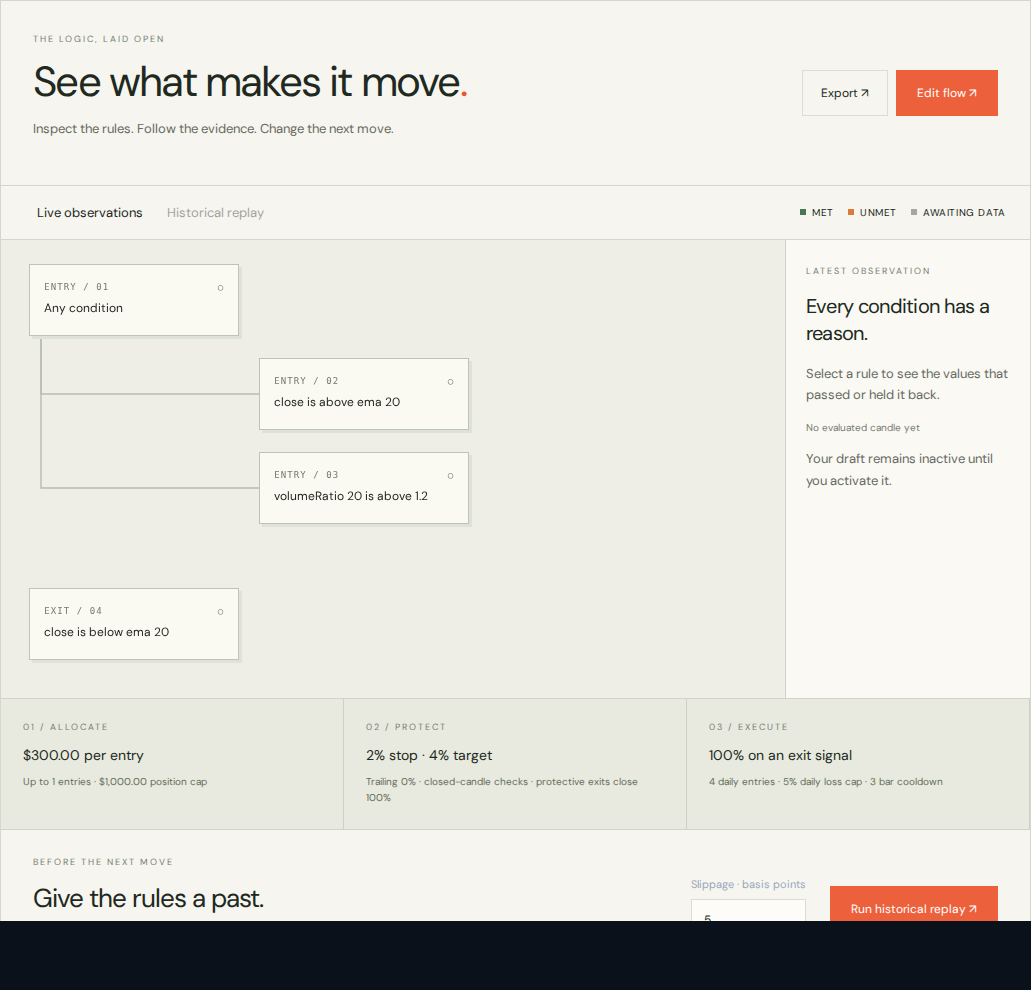
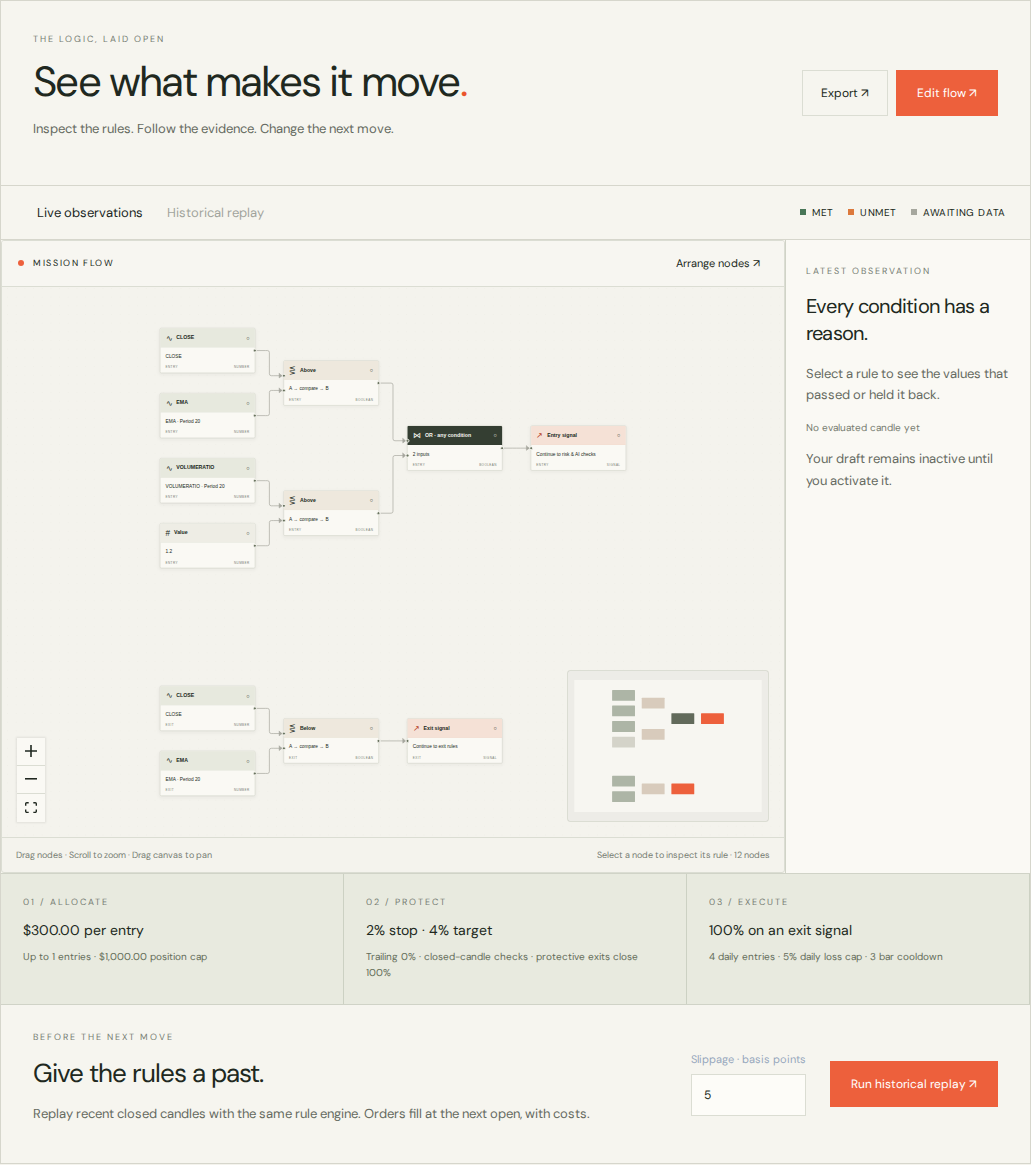
web: production build with client-side navigation
Internal links use next/link so the layout stays mounted and the brand cover
only runs on a cold load. pm2 now serves a real next build via next start;
infra/build-web.sh builds on a remote machine and installs the output.
The pm2 config passes apps/web/.env.local explicitly and clears the inherited
__NEXT_PROCESSED_ENV flag that made next start skip env files.

diff --git a/apps/web/app/page.js b/apps/web/app/page.js
@@ -1,4 +1,5 @@
 'use client';
+import Link from 'next/link';
 import {useState,useEffect,useRef} from 'react';
 import Brand from './components/Brand';
 import Sculpture from './components/Sculpture';
@@ -6,4 +7,4 @@ import Markets from './components/Markets';
 import MissionShowcase from './components/MissionShowcase';
 import './landing.css';
 const Arrow=()=> <span aria-hidden="true">↗</span>;
-export default function Landing(){const [menu,setMenu]=useState(false);const root=useRef(null);useEffect(()=>{const observer=new IntersectionObserver(entries=>entries.forEach(e=>{if(e.isIntersecting)e.target.classList.add('revealed')}),{threshold:.12});root.current.querySelectorAll('.reveal').forEach(e=>observer.observe(e));return()=>observer.disconnect()},[]);return <div className="landing" ref={root}><header className="site-header"><Brand/><nav aria-label="Main navigation"><a href="#markets">Markets</a><a href="#experience">The experience</a><a href="#insights">AI missions</a></nav><a className="nav-trade" href="/trade">Open exchange <Arrow/></a><button className="mobile-toggle" aria-label="Toggle menu" aria-expanded={menu} onClick={()=>setMenu(!menu)}>{menu?'Close':'Menu'}</button></header>{menu&&<nav className="landing-mobile"><a href="#markets" onClick={()=>setMenu(false)}>Markets ↗</a><a href="#experience" onClick={()=>setMenu(false)}>The experience ↗</a><a href="#insights" onClick={()=>setMenu(false)}>AI missions ↗</a><a href="/trade">Open exchange ↗</a></nav>}<section className="landing-hero"><div className="hero-atmosphere" aria-hidden="true"><span className="hero-watermark">algoty</span><i className="hero-color-haze"/></div><div className="hero-kicker"><span>A DIFFERENT WAY TO MEET THE MARKET.</span><span>EST. 2026 / ALWAYS CURIOUS</span></div><h1><span className="hero-line-one">Make</span><span className="hero-line-two">your move.</span></h1><Sculpture/><span className="hero-script">with clarity.</span><a href="/trade" className="hero-cta">Step into the exchange <Arrow/></a><div className="hero-bottom-left"><span className="mini-orbit">✳</span><p>A little curiosity.<br/>A whole new perspective.</p></div><div className="hero-bottom-right"><p>Explore. Trade. Find your rhythm.<br/>Start with a virtual portfolio.</p><a href="#markets">SCROLL TO EXPLORE <span>↓</span></a></div><div className="object-note">01 / THE ALGOTY ORBIT <span>DRAG TO EXPLORE</span></div></section><section className="marquee" aria-label="Trade with perspective"><div>MORE PERSPECTIVE <span>✳</span> LESS GUESSWORK <span>✳</span> MORE PERSPECTIVE <span>✳</span> LESS GUESSWORK <span>✳</span></div></section><section id="markets" className="market-section reveal"><div className="section-heading"><span className="section-index">01 — KEEP YOUR EYE ON IT</span><div><h2>The market.<br/><em>In the moment.</em></h2><p>A clear view of the assets you follow.<br/>Less noise. More room to see.</p></div></div><Markets/><div className="section-bottom"><span>Live Binance data. Your orders use virtual funds and observed market liquidity.</span><a href="/markets">Explore markets <Arrow/></a></div></section><section id="experience" className="experience-section"><div className="experience-top reveal"><span className="section-index">02 — FIND YOUR OWN RHYTHM</span><h2>All the room<br/>to <em>make a move.</em></h2><a className="outline-cta" href="/trade">Meet your trading space <Arrow/></a></div><div className="experience-stage reveal"><div className="terminal-preview"><div className="preview-bar"><Brand/><span>BTC / USDT <b>PAPER TRADING</b></span><span>YOUR SPACE ↗</span></div><div className="preview-grid"><div><small>BITCOIN / LIVE MARKET</small><strong>Your next move<br/>starts here.</strong><svg viewBox="0 0 600 170" aria-hidden="true"><path d="M0 150 25 140 40 145 65 90 85 110 110 80 140 95 160 70 190 100 205 60 235 82 255 40 275 55 300 25 325 45 345 20 360 40 390 10 410 35 435 18 460 40 485 5 510 28 540 10 565 20 600 0" fill="none" stroke="currentColor" strokeWidth="2"/></svg><span className="preview-caption">Illustrative chart · your trades create their own story</span></div><aside><small>YOUR STARTING PORTFOLIO</small><strong>$10,000</strong><span>virtual USDT. Start with a clean slate.</span><div className="preview-row">Order type <b>Limit</b></div><div className="preview-row">Your pace <b>Your choice</b></div><a href="/trade">Make your first trade ↗</a></aside></div></div><span className="stage-label">A FAMILIAR SPACE. A FRESH PERSPECTIVE.</span></div><div className="experience-features reveal"><div><span>01 /</span><h3>Your space to trade.</h3><p>Live candles and depth. Market and limit orders, priced against observed liquidity.</p></div><div><span>02 /</span><h3>Stay in the details.</h3><p>See your open orders, partial fills and available balance as you go.</p></div><div><span>03 /</span><h3>An idea worth following.</h3><p>Describe a mission. Review its rules and let an AI agent follow the market.</p></div></div></section><MissionShowcase/><section className="faq-section reveal"><span className="section-index">A FEW THINGS WORTH KNOWING</span><h2>Before you <em>begin.</em></h2>{[['Is this real-money trading?','AlgoTy is a paper-trading exchange. You use virtual funds, with no deposits or withdrawals. It is a space to explore trading and research.'],['What can I trade?','Trade Bitcoin, Ethereum and Solana against virtual USDT. Live candles, trades and depth come from Binance public market data. Market and limit orders execute inside AlgoTy, never on Binance.'],['How do I start?','Open the exchange for a $10,000 virtual USDT portfolio. Place a market or limit order, or create an AI mission with its own account. Register to keep access across devices.'],['What does the AI agent actually do?','It converts your brief into editable supported rules. Once activated, it watches closed candles, reviews entry evidence with AI and sends paper orders within fixed limits. You can pause it or compare two fresh versions. Stops are checked on candle close; results are not forecasts.']].map(([q,a])=><details key={q}><summary>{q}<span>+</span></summary><p>{a}</p></details>)}</section><footer className="landing-footer"><div className="footer-top"><span>THE NEXT MOVE IS YOURS.</span><a href="/trade">Let's make it happen <Arrow/></a></div><a className="footer-giant" href="/trade">Stay curious.<span>↗</span></a><div className="footer-bottom"><Brand/><nav><a href="/markets">Markets</a><a href="/trade">Exchange</a><a href="/agents">AI missions</a></nav><span>© 2026 ALGOTY<br/>Virtual funds. Real curiosity.</span></div></footer></div>}
+export default function Landing(){const [menu,setMenu]=useState(false);const root=useRef(null);useEffect(()=>{const observer=new IntersectionObserver(entries=>entries.forEach(e=>{if(e.isIntersecting)e.target.classList.add('revealed')}),{threshold:.12});root.current.querySelectorAll('.reveal').forEach(e=>observer.observe(e));return()=>observer.disconnect()},[]);return <div className="landing" ref={root}><header className="site-header"><Brand/><nav aria-label="Main navigation"><a href="#markets">Markets</a><a href="#experience">The experience</a><a href="#insights">AI missions</a></nav><Link className="nav-trade" href="/trade">Open exchange <Arrow/></Link><button className="mobile-toggle" aria-label="Toggle menu" aria-expanded={menu} onClick={()=>setMenu(!menu)}>{menu?'Close':'Menu'}</button></header>{menu&&<nav className="landing-mobile"><a href="#markets" onClick={()=>setMenu(false)}>Markets ↗</a><a href="#experience" onClick={()=>setMenu(false)}>The experience ↗</a><a href="#insights" onClick={()=>setMenu(false)}>AI missions ↗</a><Link href="/trade">Open exchange ↗</Link></nav>}<section className="landing-hero"><div className="hero-atmosphere" aria-hidden="true"><span className="hero-watermark">algoty</span><i className="hero-color-haze"/></div><div className="hero-kicker"><span>A DIFFERENT WAY TO MEET THE MARKET.</span><span>EST. 2026 / ALWAYS CURIOUS</span></div><h1><span className="hero-line-one">Make</span><span className="hero-line-two">your move.</span></h1><Sculpture/><span className="hero-script">with clarity.</span><Link href="/trade" className="hero-cta">Step into the exchange <Arrow/></Link><div className="hero-bottom-left"><span className="mini-orbit">✳</span><p>A little curiosity.<br/>A whole new perspective.</p></div><div className="hero-bottom-right"><p>Explore. Trade. Find your rhythm.<br/>Start with a virtual portfolio.</p><a href="#markets">SCROLL TO EXPLORE <span>↓</span></a></div><div className="object-note">01 / THE ALGOTY ORBIT <span>DRAG TO EXPLORE</span></div></section><section className="marquee" aria-label="Trade with perspective"><div>MORE PERSPECTIVE <span>✳</span> LESS GUESSWORK <span>✳</span> MORE PERSPECTIVE <span>✳</span> LESS GUESSWORK <span>✳</span></div></section><section id="markets" className="market-section reveal"><div className="section-heading"><span className="section-index">01 — KEEP YOUR EYE ON IT</span><div><h2>The market.<br/><em>In the moment.</em></h2><p>A clear view of the assets you follow.<br/>Less noise. More room to see.</p></div></div><Markets/><div className="section-bottom"><span>Live Binance data. Your orders use virtual funds and observed market liquidity.</span><Link href="/markets">Explore markets <Arrow/></Link></div></section><section id="experience" className="experience-section"><div className="experience-top reveal"><span className="section-index">02 — FIND YOUR OWN RHYTHM</span><h2>All the room<br/>to <em>make a move.</em></h2><Link className="outline-cta" href="/trade">Meet your trading space <Arrow/></Link></div><div className="experience-stage reveal"><div className="terminal-preview"><div className="preview-bar"><Brand/><span>BTC / USDT <b>PAPER TRADING</b></span><span>YOUR SPACE ↗</span></div><div className="preview-grid"><div><small>BITCOIN / LIVE MARKET</small><strong>Your next move<br/>starts here.</strong><svg viewBox="0 0 600 170" aria-hidden="true"><path d="M0 150 25 140 40 145 65 90 85 110 110 80 140 95 160 70 190 100 205 60 235 82 255 40 275 55 300 25 325 45 345 20 360 40 390 10 410 35 435 18 460 40 485 5 510 28 540 10 565 20 600 0" fill="none" stroke="currentColor" strokeWidth="2"/></svg><span className="preview-caption">Illustrative chart · your trades create their own story</span></div><aside><small>YOUR STARTING PORTFOLIO</small><strong>$10,000</strong><span>virtual USDT. Start with a clean slate.</span><div className="preview-row">Order type <b>Limit</b></div><div className="preview-row">Your pace <b>Your choice</b></div><Link href="/trade">Make your first trade ↗</Link></aside></div></div><span className="stage-label">A FAMILIAR SPACE. A FRESH PERSPECTIVE.</span></div><div className="experience-features reveal"><div><span>01 /</span><h3>Your space to trade.</h3><p>Live candles and depth. Market and limit orders, priced against observed liquidity.</p></div><div><span>02 /</span><h3>Stay in the details.</h3><p>See your open orders, partial fills and available balance as you go.</p></div><div><span>03 /</span><h3>An idea worth following.</h3><p>Describe a mission. Review its rules and let an AI agent follow the market.</p></div></div></section><MissionShowcase/><section className="faq-section reveal"><span className="section-index">A FEW THINGS WORTH KNOWING</span><h2>Before you <em>begin.</em></h2>{[['Is this real-money trading?','AlgoTy is a paper-trading exchange. You use virtual funds, with no deposits or withdrawals. It is a space to explore trading and research.'],['What can I trade?','Trade Bitcoin, Ethereum and Solana against virtual USDT. Live candles, trades and depth come from Binance public market data. Market and limit orders execute inside AlgoTy, never on Binance.'],['How do I start?','Open the exchange for a $10,000 virtual USDT portfolio. Place a market or limit order, or create an AI mission with its own account. Register to keep access across devices.'],['What does the AI agent actually do?','It converts your brief into editable supported rules. Once activated, it watches closed candles, reviews entry evidence with AI and sends paper orders within fixed limits. You can pause it or compare two fresh versions. Stops are checked on candle close; results are not forecasts.']].map(([q,a])=><details key={q}><summary>{q}<span>+</span></summary><p>{a}</p></details>)}</section><footer className="landing-footer"><div className="footer-top"><span>THE NEXT MOVE IS YOURS.</span><Link href="/trade">Let's make it happen <Arrow/></Link></div><Link className="footer-giant" href="/trade">Stay curious.<span>↗</span></Link><div className="footer-bottom"><Brand/><nav><Link href="/markets">Markets</Link><Link href="/trade">Exchange</Link><Link href="/agents">AI missions</Link></nav><span>© 2026 ALGOTY<br/>Virtual funds. Real curiosity.</span></div></footer></div>}

diff --git a/apps/web/app/components/MissionShowcase.js b/apps/web/app/components/MissionShowcase.js
@@ -1,8 +1,9 @@
 'use client';
+import Link from 'next/link';
 import {useState} from 'react';
 const steps=[
   {name:'The idea',label:'01 / A BRIEF IN YOUR WORDS',title:'Give your curiosity\na direction.',body:'Watch Bitcoin on 15-minute candles. Buy when RSI crosses back above 30. Keep each order under 100 USDT.',foot:'An example brief. Your mission starts with your own idea.'},
   {name:'The rules',label:'02 / NOTHING BETWEEN THE LINES',title:'See what your\nagent understood.',body:'Bitcoin · 15-minute candles',foot:'Review and edit the supported rules before activating a mission.'},
   {name:'The reasoning',label:'03 / FOLLOW THE DECISION',title:'Every move.\nAn explanation.',body:'Entry condition not met.',foot:'Illustrative decision trace — not a live signal or a performance claim.'}
 ];
-export default function MissionShowcase(){const [active,setActive]=useState(0);const step=steps[active];return <section id="insights" className="mission-story reveal"><div className="mission-story-heading"><span className="section-index">03 — AN IDEA OF YOUR OWN</span><span className="mission-story-edition">HUMAN CURIOSITY / MACHINE PRECISION</span></div><div className="mission-story-title"><h2>Your instinct.<br/><em>Its instructions.</em></h2><p>You bring the idea.<br/>See the rules, set the limits,<br/>and follow the decisions.</p></div><div className="mission-story-workspace"><div className="mission-story-nav" role="tablist" aria-label="Explore an AI mission">{steps.map((s,i)=><button key={s.name} id={'mission-step-'+i} role="tab" aria-selected={active===i} aria-controls="mission-example" onClick={()=>setActive(i)} onKeyDown={e=>{if(['ArrowDown','ArrowRight','ArrowUp','ArrowLeft','Home','End'].includes(e.key)){e.preventDefault();const next=e.key==='Home'?0:e.key==='End'?2:(active+(['ArrowDown','ArrowRight'].includes(e.key)?1:2))%3;setActive(next);document.getElementById('mission-step-'+next)?.focus()}}} tabIndex={active===i?0:-1}><span>0{i+1}</span>{s.name}<b aria-hidden="true">↗</b></button>)}<a href="/agents">Build your own mission <span aria-hidden="true">↗</span></a></div><div id="mission-example" role="tabpanel" aria-labelledby={'mission-step-'+active} className="mission-story-panel" tabIndex={0}><div key={active} className="mission-story-content"><div className="mission-story-meta"><span>{step.label}</span><span>EXAMPLE MISSION</span></div><h3>{step.title}</h3>{active===0?<blockquote>{step.body}<span className="mission-pencil" aria-hidden="true">make it yours.</span></blockquote>:active===1?<div className="mission-rule-sheet"><p>{step.body}</p><div><span>WHEN</span><strong>RSI crosses above 30</strong></div><div><span>THEN</span><strong>Buy with virtual USDT</strong></div><div><span>LIMIT</span><strong>100 USDT per order</strong></div></div>:<div className="mission-trace-sheet"><strong>{step.body}</strong><div><span>Previous RSI</span><b>28.4</b></div><div><span>Latest RSI</span><b>29.1</b></div><div><span>Crossed above 30?</span><b>No → wait</b></div></div>}<p className="mission-story-footnote">{step.foot}</p></div></div></div><div className="mission-story-signoff"><span>YOUR IDEA STAYS YOURS.</span><p>The thinking is there to see.</p><span aria-hidden="true">✳</span></div></section>}
+export default function MissionShowcase(){const [active,setActive]=useState(0);const step=steps[active];return <section id="insights" className="mission-story reveal"><div className="mission-story-heading"><span className="section-index">03 — AN IDEA OF YOUR OWN</span><span className="mission-story-edition">HUMAN CURIOSITY / MACHINE PRECISION</span></div><div className="mission-story-title"><h2>Your instinct.<br/><em>Its instructions.</em></h2><p>You bring the idea.<br/>See the rules, set the limits,<br/>and follow the decisions.</p></div><div className="mission-story-workspace"><div className="mission-story-nav" role="tablist" aria-label="Explore an AI mission">{steps.map((s,i)=><button key={s.name} id={'mission-step-'+i} role="tab" aria-selected={active===i} aria-controls="mission-example" onClick={()=>setActive(i)} onKeyDown={e=>{if(['ArrowDown','ArrowRight','ArrowUp','ArrowLeft','Home','End'].includes(e.key)){e.preventDefault();const next=e.key==='Home'?0:e.key==='End'?2:(active+(['ArrowDown','ArrowRight'].includes(e.key)?1:2))%3;setActive(next);document.getElementById('mission-step-'+next)?.focus()}}} tabIndex={active===i?0:-1}><span>0{i+1}</span>{s.name}<b aria-hidden="true">↗</b></button>)}<Link href="/agents">Build your own mission <span aria-hidden="true">↗</span></Link></div><div id="mission-example" role="tabpanel" aria-labelledby={'mission-step-'+active} className="mission-story-panel" tabIndex={0}><div key={active} className="mission-story-content"><div className="mission-story-meta"><span>{step.label}</span><span>EXAMPLE MISSION</span></div><h3>{step.title}</h3>{active===0?<blockquote>{step.body}<span className="mission-pencil" aria-hidden="true">make it yours.</span></blockquote>:active===1?<div className="mission-rule-sheet"><p>{step.body}</p><div><span>WHEN</span><strong>RSI crosses above 30</strong></div><div><span>THEN</span><strong>Buy with virtual USDT</strong></div><div><span>LIMIT</span><strong>100 USDT per order</strong></div></div>:<div className="mission-trace-sheet"><strong>{step.body}</strong><div><span>Previous RSI</span><b>28.4</b></div><div><span>Latest RSI</span><b>29.1</b></div><div><span>Crossed above 30?</span><b>No → wait</b></div></div>}<p className="mission-story-footnote">{step.foot}</p></div></div></div><div className="mission-story-signoff"><span>YOUR IDEA STAYS YOURS.</span><p>The thinking is there to see.</p><span aria-hidden="true">✳</span></div></section>}

diff --git a/apps/web/app/components/PageReady.js b/apps/web/app/components/PageReady.js
@@ -5,6 +5,12 @@ export default function PageReady({children}) {
   const [ready,setReady]=useState(false);
   useEffect(()=>{
     let active=true;
+    // Client-side navigation keeps this layout mounted, so the cover only runs on a cold load.
+    // A repeat cold load in the same tab already has fonts and artwork cached: reveal at once.
+    let seen=false;
+    try{seen=sessionStorage.getItem('algoty-ready')==='1'}catch{}
+    const done=()=>{try{sessionStorage.setItem('algoty-ready','1')}catch{};if(active)setReady(true)};
+    if(seen){requestAnimationFrame(done);if('serviceWorker' in navigator)navigator.serviceWorker.register('/asset-sw.js').catch(()=>{});return()=>{active=false}}
     let observer;
     const frame=()=>new Promise(resolve=>requestAnimationFrame(()=>requestAnimationFrame(resolve)));
     const fonts=Promise.allSettled(['400 16px DM','600 16px DM','700 16px DM','400 16px Hand'].map(font=>document.fonts.load(font)));
@@ -16,9 +22,9 @@ export default function PageReady({children}) {
     });
     const timeout=setTimeout(()=>{
       if(sculpture&&!sculpture.dataset.ready)sculpture.dataset.ready='fallback';
-      if(active)setReady(true);
+      done();
     },8000);
-    Promise.allSettled([fonts,pictures,artwork]).then(frame).then(()=>{clearTimeout(timeout);if(active)setReady(true)});
+    Promise.allSettled([fonts,pictures,artwork]).then(frame).then(()=>{clearTimeout(timeout);done()});
     if('serviceWorker' in navigator)navigator.serviceWorker.register('/asset-sw.js').catch(()=>{});
     return()=>{active=false;clearTimeout(timeout);observer?.disconnect()};
   },[]);

diff --git a/apps/web/app/components/product/common.js b/apps/web/app/components/product/common.js
@@ -1,4 +1,5 @@
 "use client";
+import Link from 'next/link';
 import Brand from "../Brand";
 import { useEffect, useState, useRef } from "react";
 export const fmt = (n, d = 2) =>
@@ -66,24 +67,24 @@ export function Shell({ active, children, user }) {
         <Brand/>
         <span className="product-mode">LIVE MARKET / PAPER CAPITAL</span>
         <nav>
-          <a className={active === "trade" ? "selected" : ""} href="/trade">
+          <Link className={active === "trade" ? "selected" : ""} href="/trade">
             Exchange
-          </a>
-          <a className={active === "agents" ? "selected" : ""} href="/agents">
+          </Link>
+          <Link className={active === "agents" ? "selected" : ""} href="/agents">
             AI missions
-          </a>
-          <a href="/markets">Markets</a>
+          </Link>
+          <Link href="/markets">Markets</Link>
         </nav>
-        <a className="account-link" href="/account">
+        <Link className="account-link" href="/account">
           <span>{user?.name?.slice(0, 1) || "↗"}</span>
           {user?.registered ? user.name : "Save your account"}
-        </a>
+        </Link>
       </header>
       <div className="product-body">{children}</div>
       <footer className="product-footer">
         <span>ALGOTY / A MORE CONSIDERED MOVE.</span>
         <span>Live Binance data · Virtual funds · 0.1% execution fee</span>
-        <a href="/agents">Meet your agent ↗</a>
+        <Link href="/agents">Meet your agent ↗</Link>
       </footer>
     </div>
   );

diff --git a/apps/web/app/account/page.js b/apps/web/app/account/page.js
@@ -1,4 +1,5 @@
 "use client";
+import Link from 'next/link';
 import GoogleSignIn from "../components/product/GoogleSignIn";
 import AccountSettings from "../components/product/AccountSettings";
 import ForgotPassword from "../components/product/ForgotPassword";
@@ -92,12 +93,12 @@ export default function Account() {
               )}
               <AccountSettings user={user} setUser={setUser} setCode={setCode} setNotice={setNotice}/>
               <div className="mission-actions">
-                <a className="primary" href="/trade">
+                <Link className="primary" href="/trade">
                   Open exchange ↗
-                </a>
-                <a className="secondary" href="/agents">
+                </Link>
+                <Link className="secondary" href="/agents">
                   Your AI missions ↗
-                </a>
+                </Link>
               </div>
               <p className="micro-note">
                 Sessions expire after seven days. Signing in on another device

diff --git a/apps/web/app/shared/[token]/page.js b/apps/web/app/shared/[token]/page.js
@@ -1,4 +1,5 @@
 "use client";
+import Link from 'next/link';
 import { useEffect, useState, use } from "react";
 import {
   api,
@@ -33,9 +34,9 @@ export default function Shared({ params }) {
               The same market<span>.</span>
             </h1>
           </div>
-          <a className="primary" href="/agents">
+          <Link className="primary" href="/agents">
             Create your own mission ↗
-          </a>
+          </Link>
         </div>
         <Notice text={error} />
         {!data && !error && (

diff --git a/apps/web/app/trade/page.js b/apps/web/app/trade/page.js
@@ -1,4 +1,5 @@
 "use client";
+import Link from 'next/link';
 import { useEffect, useState, useRef } from "react";
 import {
   api,
@@ -102,7 +103,7 @@ export default function Trade() {
               {portfolio?.equity == null ? "—" : usd(portfolio.equity - 1e12)}
             </b>
           </span>
-          <a href="/agents">Delegate to an agent ↗</a>
+          <Link href="/agents">Delegate to an agent ↗</Link>
         </div>
       </div>
       <Notice text={notice || error} clear={() => setNotice("")} />

diff --git a/apps/web/app/agents/page.js b/apps/web/app/agents/page.js
@@ -1,4 +1,5 @@
 "use client";
+import Link from 'next/link';
 import { useEffect, useState } from "react";
 import Studio, {
   FlowEditor,
@@ -346,7 +347,7 @@ export default function Agents() {
           <span>
             Your agents<b>{list.length}</b>
           </span>
-          <a href="/trade">Back to exchange ↗</a>
+          <Link href="/trade">Back to exchange ↗</Link>
         </div>
       </div>
       <Notice text={notice || error} clear={() => setNotice("")} />

diff --git a/README.md b/README.md
@@ -51,6 +51,6 @@ python3 -m unittest discover -s workers/mission-python -p test_service.py -v
 bash infra/start.sh
 ```
 
-This deployment is a **public preview**, with a Next development server. Server policy prohibits full Next builds/typechecks on yusam; run a production build on a suitable build machine before claiming production readiness. Java and Go are compiled services. Tests cover unit/domain rules, real API/LLM flows, restart recovery and desktop/mobile journeys; these are not claims of exchange-scale throughput or profitable trading.
+This deployment is a **public preview**. Server policy prohibits full Next builds/typechecks on yusam, so `infra/build-web.sh` builds the Next.js app on a separate build machine over SSH and installs the production output here; pm2 then runs `next start`. Internal navigation is client-side, and the brand cover only runs on a cold load. Java and Go are compiled services. Tests cover unit/domain rules, real API/LLM flows, restart recovery and desktop/mobile journeys; these are not claims of exchange-scale throughput or profitable trading.
 
 Older simulated matching and historical research sources remain available under `services/matching-go`, `workers/research-python` and earlier docs as a development baseline. The v2 product uses the live-market path above. Secrets and runtime snapshots are excluded from Git.

diff --git a/docs/v2/RUNBOOK.md b/docs/v2/RUNBOOK.md
@@ -4,7 +4,7 @@
 
 AlgoTy gives each visitor a virtual USDT portfolio, live Binance spot-market data, and a workstation for BTC/USDT, ETH/USDT and SOL/USDT. A natural-language AI brief creates a structured draft; the user reviews it before activation. Agents observe future closed candles, run bounded entry/exit rules and record their reasoning and paper executions. Branching creates two fresh accounts with equal capital and a shared start.
 
-The production-facing domain is https://algoty.com. This deployment remains a **public preview**: Next runs in development mode because full builds/typechecks are prohibited on yusam. No scalability, profitability, real exchange employment or real-money custody claim follows from this deployment.
+The production-facing domain is https://algoty.com. This deployment remains a **public preview**. Full Next builds/typechecks are prohibited on yusam, so the web app is built remotely with `infra/build-web.sh` (ROG laptop over the reverse tunnel) and served with `next start`. `infra/ecosystem.config.cjs` passes `apps/web/.env.local` to the process explicitly and clears the inherited `__NEXT_PROCESSED_ENV` flag, which otherwise makes `next start` ignore env files. No scalability, profitability, real exchange employment or real-money custody claim follows from this deployment.
 
 ## Service ownership
 
